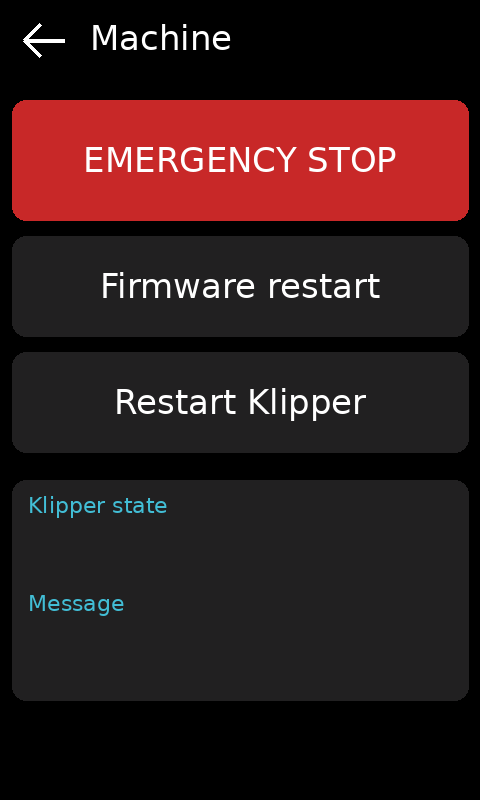
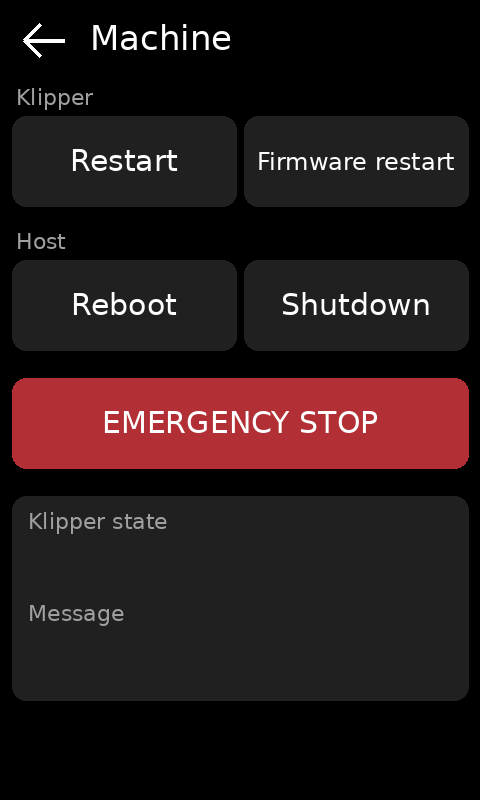
Machine page: Klipper restart, firmware restart, host reboot and shutdown
- machine_page is now part of klipper_ui (Tune 2/2, in place of WiFi):
  Klipper Restart / Firmware restart, Host Reboot / Shutdown, each behind a
  Yes/No dialog (pages 49-52, copies of the stock dialog), E-STOP immediate;
  pages 53/54 shown while the host shuts down / reboots
- bridge: /machine/reboot and /machine/shutdown, refused while printing;
  optional shutdown_plug: a Tasmota plug told "Backlog Delay; Power Off"
  first, so it cuts the printer (and the Pi in it) after the Pi has halted;
  no shutdown if the plug can't be reached. machine_page defaults to true
- mock Moonraker: /machine/reboot and /machine/shutdown (recorded only)
- tests: host actions against the mock and a fake Tasmota plug

Claude-Session: https://claude.ai/code/session_01HTu6hzj5QCnmUbcSjc1dCz

diff --git a/tests/test_spoolman.py b/tests/test_spoolman.py
@@ -136,5 +136,88 @@ class BridgeSpoolmanTest(unittest.TestCase):
         self.assertEqual(len(self.link.sent), n)
 
 
+
+class HostControlTest(BridgeSpoolmanTest):
+    """Machine page host actions against the mock Moonraker and a fake Tasmota plug."""
+
+    def setUp(self):
+        super().setUp()
+        from http.server import BaseHTTPRequestHandler
+        self.plug_calls = []
+        calls = self.plug_calls
+
+        class Plug(BaseHTTPRequestHandler):
+            def log_message(self, *a):
+                pass
+
+            def do_GET(self):
+                calls.append(self.path)
+                body = b'{"Delay":600,"POWER1":"OFF"}'
+                self.send_response(200)
+                self.send_header('Content-Length', str(len(body)))
+                self.end_headers()
+                self.wfile.write(body)
+        self.plug = ThreadingHTTPServer(('127.0.0.1', 0), Plug)
+        threading.Thread(target=self.plug.serve_forever, daemon=True).start()
+        self.b.jobs = _Inline()
+
+    def tearDown(self):
+        self.plug.shutdown()
+        self.plug.server_close()
+        super().tearDown()
+
+    def pages(self):
+        from crm4ui import dgus
+        return [f.payload()[3] for f in self.link.sent if f.vp == dgus.VP_PAGE]
+
+    def test_reboot(self):
+        self.b.handle_frame(_key(ui.K_MACHINE, 4))
+        self.assertEqual(self.pages()[-1], ui.PAGE_HOST_REBOOT)
+        self.assertEqual(self.pr.host_actions, ['reboot'])
+
+    def test_shutdown_with_plug(self):
+        self.b.cfg.shutdown_plug = f'127.0.0.1:{self.plug.server_address[1]}'
+        self.b.cfg.shutdown_plug_user, self.b.cfg.shutdown_plug_password = 'admin', 'pw'
+        self.b.handle_frame(_key(ui.K_MACHINE, 5))
+        self.assertEqual(self.pages()[-1], ui.PAGE_HOST_SHUTDOWN)
+        self.assertEqual(self.pr.host_actions, ['shutdown'])
+        self.assertEqual(len(self.plug_calls), 1)
+        from urllib.parse import parse_qs, urlparse
+        q = parse_qs(urlparse(self.plug_calls[0]).query)
+        self.assertEqual(q['cmnd'], ['Backlog Delay 600; Power1 Off'])
+        self.assertEqual((q['user'], q['password']), (['admin'], ['pw']))
+        self.assertIn('off in 60 s', self.screen()[1][ui.TXT_SHUTDOWN_NOTE[0]])
+
+    def test_plug_unreachable_aborts_shutdown(self):
+        self.b.cfg.shutdown_plug = '127.0.0.1:9'
+        self.b.handle_frame(_key(ui.K_MACHINE, 5))
+        self.assertEqual(self.pr.host_actions, [])
+        self.assertEqual(self.pages()[-1], ui.PAGE_ERROR)
+
+    def test_refused_while_printing(self):
+        self.b.print_state = 'printing'
+        for k in (4, 5):
+            self.b.handle_frame(_key(ui.K_MACHINE, k))
+        self.assertEqual(self.pr.host_actions, [])
+        self.assertEqual(self.pages()[-1], ui.PAGE_MACHINE)
+        self.assertEqual(self.screen()[1][ui.TXT_MACHINE_MSG[0]], 'Stop the print first')
+
+    def test_dry_run(self):
+        self.b.cfg.dry_run = True
+        self.b.cfg.shutdown_plug = f'127.0.0.1:{self.plug.server_address[1]}'
+        self.b.handle_frame(_key(ui.K_MACHINE, 5))
+        self.assertEqual((self.pr.host_actions, self.plug_calls), ([], []))
+
+
+class _Inline:
+    def submit(self, fn):
+        fn()
+
+
+def _key(vp, k):
+    from crm4ui import dgus
+    return dgus.reply_words(vp, k)
+
+
 if __name__ == '__main__':
     unittest.main()

diff --git a/src/crm4bridge/bridge.py b/src/crm4bridge/bridge.py
@@ -15,7 +15,7 @@ from crm4ui import dgus
 from . import spoolman, ui
 from .config import State
 from .link import ScreenLink
-from .moonraker import Moonraker, MoonrakerError
+from .moonraker import Moonraker, MoonrakerError, tasmota_delayed_off
 
 log = logging.getLogger('crm4bridge')
 
@@ -569,6 +569,36 @@ class Bridge:
             self._api('FIRMWARE_RESTART', self.moon.firmware_restart)
         elif k == 3:
             self._api('RESTART', self.moon.restart)
+        elif k in (4, 5):
+            if self.print_state in ('printing', 'paused'):
+                self.text(ui.TXT_MACHINE_MSG, 'Stop the print first')
+                self.set_page(ui.PAGE_MACHINE, 'host action refused while printing')
+                return
+            if k == 4:
+                self.set_page(ui.PAGE_HOST_REBOOT, 'host reboot')
+                self._api('host reboot', self.moon.machine_reboot)
+            else:
+                self.host_shutdown()
+
+    def host_shutdown(self):
+        """Shut the host down; with shutdown_plug set, the printer plug switches off by itself
+        shutdown_plug_delay seconds later (the Pi has halted by then)."""
+        cfg = self.cfg
+        if cfg.shutdown_plug:
+            note = f'Printer power switches off in {cfg.shutdown_plug_delay:.0f} s'
+        else:
+            note = 'Safe to switch off in 30 s'
+        self.text(ui.TXT_SHUTDOWN_NOTE, note)
+        self.set_page(ui.PAGE_HOST_SHUTDOWN, 'host shutdown')
+
+        def run():
+            if cfg.shutdown_plug:
+                tasmota_delayed_off(cfg.shutdown_plug, cfg.shutdown_plug_delay, cfg.shutdown_plug_output,
+                                    cfg.shutdown_plug_user, cfg.shutdown_plug_password)
+            self.moon.machine_shutdown()
+        label = 'host shutdown' + (f' (plug {cfg.shutdown_plug} off in {cfg.shutdown_plug_delay:.0f} s)'
+                                   if cfg.shutdown_plug else '')
+        self._api(label, run)
 
     def k_ignore(self, k):
         pass

diff --git a/examples/make_assets.py b/examples/make_assets.py
@@ -57,20 +57,27 @@ def machine_assets():
     dr.text((8, 70), 'Machine', font=font(30), fill=WHITE)
     tile.save(os.path.join(out, 'machine_tile.png'))
 
-    # Page 45 background: title bar, three action cards, status panel.
+    # Page 45 background: Klipper and Host sections, E-STOP, status panel.
+    # Drawn in the Klipper theme (klipper_branding) since the page is added after its recolour.
+    red, grey = (177, 47, 53), (160, 160, 160)
     im = Image.new('RGB', (480, 800), BLACK)
     dr = ImageDraw.Draw(im)
     back_arrow(dr, 24, 20)
     dr.text((90, 18), 'Machine', font=font(34), fill=WHITE)
-    cards = [((12, 100, 468, 220), RED, 'EMERGENCY STOP'),
-             ((12, 236, 468, 336), CARD, 'Firmware restart'),
-             ((12, 352, 468, 452), CARD, 'Restart Klipper')]
+    dr.text((16, 84), 'Klipper', font=font(22), fill=grey)
+    dr.text((16, 228), 'Host', font=font(22), fill=grey)
+    cards = [((12, 116, 236, 206), CARD, 'Restart'),
+             ((244, 116, 468, 206), CARD, 'Firmware restart'),
+             ((12, 260, 236, 350), CARD, 'Reboot'),
+             ((244, 260, 468, 350), CARD, 'Shutdown'),
+             ((12, 378, 468, 468), red, 'EMERGENCY STOP')]
     for box, col, label in cards:
         dr.rounded_rectangle(box, 14, fill=col)
-        centered(dr, (box[0] + box[2]) / 2, (box[1] + box[3]) / 2 - 20, label, font(34), WHITE)
-    dr.rounded_rectangle((12, 480, 468, 700), 14, fill=CARD)
-    dr.text((28, 492), 'Klipper state', font=font(22), fill=ACCENT)
-    dr.text((28, 590), 'Message', font=font(22), fill=ACCENT)
+        f = font(30 if dr.textlength(label, font=font(30)) < box[2] - box[0] - 20 else 24)
+        centered(dr, (box[0] + box[2]) / 2, (box[1] + box[3]) / 2 - f.size * 0.6, label, f, WHITE)
+    dr.rounded_rectangle((12, 496, 468, 700), 14, fill=CARD)
+    dr.text((28, 508), 'Klipper state', font=font(22), fill=grey)
+    dr.text((28, 600), 'Message', font=font(22), fill=grey)
     im.save(os.path.join(out, 'page45.png'))
 
 

diff --git a/src/crm4bridge/moonraker.py b/src/crm4bridge/moonraker.py
@@ -112,3 +112,34 @@ class Moonraker:
 
     def restart(self):
         return self.post('/printer/restart')
+
+    def machine_reboot(self):
+        return self.post('/machine/reboot')
+
+    def machine_shutdown(self):
+        return self.post('/machine/shutdown')
+
+
+def tasmota_delayed_off(address, delay_s, output=1, user=None, password=None, timeout=5.0):
+    """Ask a Tasmota plug to switch itself off after delay_s seconds (max 360).
+
+    The plug runs the delay itself, so it still switches off after this host
+    has shut down. Uses Tasmota's HTTP command API: Backlog Delay <0.1 s>; Power<n> Off.
+    """
+    delay = max(2, min(3600, int(round(delay_s * 10))))
+    base = address if '://' in address else f'http://{address}'
+    params = {'cmnd': f'Backlog Delay {delay}; Power{int(output)} Off'}
+    if user:
+        params['user'] = user
+    if password:
+        params['password'] = password
+    url = base.rstrip('/') + '/cm?' + urllib.parse.urlencode(params)
+    try:
+        with urllib.request.urlopen(url, timeout=timeout) as r:
+            body = json.loads(r.read() or b'{}')
+    except (urllib.error.URLError, OSError, ValueError) as e:
+        raise MoonrakerError(f'plug {address}: {e}') from e
+    if isinstance(body, dict) and ('Command' in body and body['Command'] == 'Unknown'
+                                   or 'WARNING' in body):
+        raise MoonrakerError(f'plug {address}: {body}')
+    return body

diff --git a/src/crm4bridge/ui.py b/src/crm4bridge/ui.py
@@ -42,6 +42,7 @@ PAGE_SETTINGS_2 = 121
 PAGE_PID_NOZZLE, PAGE_PID_NOZZLE_RUN, PAGE_PID_NOZZLE_DONE = 122, 123, 124
 PAGE_PID_BED, PAGE_PID_BED_RUN, PAGE_PID_BED_DONE = 125, 126, 127
 PAGE_MACHINE = 45                  # custom page from examples/machine_page
+PAGE_HOST_SHUTDOWN, PAGE_HOST_REBOOT = 53, 54
 
 PRINT_FLOW_PAGES = {PAGE_PAUSE_CONFIRM, PAGE_STOP_CONFIRM, PAGE_PRINT_DONE, PAGE_PRINTING_NOPAUSE,
                     PAGE_PRINTING, PAGE_PAUSED, PAGE_TUNE, PAGE_ZOFFSET_TUNE, PAGE_RUNOUT}
@@ -99,6 +100,7 @@ TXT_ABOUT = {'model': (0x30FA, 20), 'hw': (0x3104, 20), 'fw': (0x310E, 20), 'siz
 # custom machine page (examples/machine_page)
 TXT_MACHINE_STATE = (0x9010, 40)
 TXT_MACHINE_MSG = (0x9040, 40)
+TXT_SHUTDOWN_NOTE = (0x9050, 40)
 
 # ---- key VPs (screen -> host) -------------------------------------------------------
 K_MAIN = 0x4002        # 1 file, 2 finish(done page), 3 prepare, 4 settings, 5 print tab, 6 language ok
@@ -121,7 +123,7 @@ K_ADV2 = 0x4105        # 1/2 mesh points, 3..5 CR-touch, 6 volume, 8 home offset
 K_PID_NAV = 0x401F
 K_PID = 0x410F         # 1 start nozzle, 3 start bed, 2/4 yes (save), 5/6 back
 K_LANGUAGE = 0x4248    # 0..8
-K_MACHINE = 0x9000     # custom page: 1 e-stop, 2 firmware restart, 3 restart
+K_MACHINE = 0x9000     # custom page: 1 e-stop, 2 firmware restart, 3 restart, 4 host reboot, 5 host shutdown, 0 no
 
 LANG_KEY_TO_INDEX = {0: 0, 1: 1, 2: 2, 3: 3, 4: 4, 5: 5, 6: 6, 7: 7, 8: 8}
 

diff --git a/tests/test_stock.py b/tests/test_stock.py
@@ -144,9 +144,15 @@ class StockTest(unittest.TestCase):
         apply(prj, load_spec(os.path.join(EXAMPLES, 'machine_page', 'spec.yaml')), log=lambda *a: None)
         self.assertIn(45, prj.images)
         keys = sorted(r.key for r in prj.touch.page(45) if r.vp == 0x9000)
-        self.assertEqual(keys, [1, 2, 3])
+        self.assertEqual(keys, [1])                     # E-STOP; the rest go through Yes/No pages
         self.assertEqual(prj.vpmem.get_text(0x9010, 40), 'waiting for host')
         self.assertEqual(prj.touch.find(page=121, vp=0x403E, key=9)[0].page_next, 45)
+        for page, key, nxt in ((49, 3, 45), (50, 2, 45), (51, 4, None), (52, 5, None)):
+            yes = prj.touch.find(page=page, vp=0x9000, key=key)
+            self.assertEqual([r.page_next for r in yes], [nxt])
+            self.assertEqual(prj.touch.find(page=page, vp=0x9000, key=0)[0].page_next, 45)
+        self.assertEqual({r.page_next for r in prj.touch.page(45) if r.kind != 'return_key' or r.vp == 0}, {121, 49, 50, 51, 52})
+        self.assertIn(0x9050, {r.vp for r in prj.vars.pages[53]})
 
 
 if __name__ == '__main__':

diff --git a/src/crm4bridge/config.py b/src/crm4bridge/config.py
@@ -20,7 +20,12 @@ DEFAULTS = {
     'move_feedrate': '6000',
     'z_feedrate': '600',
     'extrude_feedrate': '300',
-    'machine_page': 'false',
+    'machine_page': 'true',
+    'shutdown_plug': '',
+    'shutdown_plug_user': '',
+    'shutdown_plug_password': '',
+    'shutdown_plug_output': '1',
+    'shutdown_plug_delay': '60',
     'spoolman': 'true',
     'spoolman_interval': '10',
 }
@@ -57,6 +62,11 @@ class Config:
         self.z_feedrate = b.getint('z_feedrate')
         self.extrude_feedrate = b.getint('extrude_feedrate')
         self.machine_page = b.getboolean('machine_page')
+        self.shutdown_plug = b['shutdown_plug'].strip()
+        self.shutdown_plug_user = b['shutdown_plug_user'] or None
+        self.shutdown_plug_password = b['shutdown_plug_password'] or None
+        self.shutdown_plug_output = b.getint('shutdown_plug_output')
+        self.shutdown_plug_delay = b.getfloat('shutdown_plug_delay')
         self.spoolman = b.getboolean('spoolman')
         self.spoolman_interval = b.getfloat('spoolman_interval')
         self.presets = dict(DEFAULT_PRESETS)

diff --git a/src/crm4bridge/mock_moonraker.py b/src/crm4bridge/mock_moonraker.py
@@ -63,6 +63,7 @@ class Printer:
         self.busy_until = 0
         self.spools = [list(s) for s in SPOOLS]
         self.spool_id = 3
+        self.host_actions = []
         self.spoolman_connected = True
 
     def tick(self, dt):
@@ -242,6 +243,10 @@ def make_handler(pr: Printer):
                 return self._ok({'spool_id': pr.spool_id})
             if p == '/server/spoolman/proxy':
                 return self._spoolman_proxy(q)
+            if p in ('/machine/reboot', '/machine/shutdown'):
+                print(f'mock: host {p.rsplit("/", 1)[1]} requested (ignored)')
+                pr.host_actions.append(p.rsplit('/', 1)[1])
+                return self._ok('ok')
             if pr.klippy != 'ready' and p not in ('/printer/firmware_restart', '/printer/restart'):
                 return self._ok('Klippy not ready', 503)
             if p == '/printer/gcode/script':

diff --git a/docs/bridge.md b/docs/bridge.md
@@ -63,7 +63,7 @@ The emulator log has every touch (with coordinates), every page change and every
   - **Velocity limits:** X/Y max acceleration, speed and corner velocity (`SET_VELOCITY_LIMIT`).
   - **Language:** fixed by `language` in the config (English by default). Picks on the screen's language page are ignored and undone.
   - **Spoolman:** the active spool (`/server/spoolman/status`, then `GET /v1/spool/<id>` through `/server/spoolman/proxy`) every `spoolman_interval` seconds: material badge, nearest colour swatch, name, remaining weight / length and vendor. "No active spool", "Spoolman offline" and "Spoolman not available" (no `[spoolman]` in Moonraker) are shown in the name line. `spoolman = false` turns it off. Badges: PLA, PETG, PLA-M (material or name says matte), PLA-CF and PETG-CF (CF or carbon); any other material gets no badge and its name in front of the spool name. See `crm4bridge/spoolman.py`.
-  - **Machine page (custom):** E-STOP, `FIRMWARE_RESTART`, `RESTART`.
+  - **Machine page (custom, Tune 2/2 in place of WiFi):** Klipper `RESTART` and `FIRMWARE_RESTART`, host reboot and shutdown (`/machine/reboot`, `/machine/shutdown`), each after a Yes/No dialog, and an immediate EMERGENCY STOP. Host actions are refused while a print is running or paused. With `shutdown_plug` set (a Tasmota plug that powers the printer and the Pi), the bridge first sends the plug `Backlog Delay <n>; Power1 Off`, so the plug switches itself off `shutdown_plug_delay` seconds after the Pi has halted; if the plug can't be reached, the host is not shut down.
   - **Everything else** shows the "not developed yet" popup: Creality Wi-Fi/cloud, restore network, reset configuration, feedback, CR-Touch tests, improved accuracy, auto leveling data, power-loss recovery, home offsets, manual PID and PID cycle counts, steps/mm, Z/E velocity limits, auto sleep and volume. With the `klipper_ui` build these tiles no longer open their own pages first (`examples/unsupported_features`).
 
 ## Assumptions to confirm on the real screen

diff --git a/README.md b/README.md
@@ -65,8 +65,8 @@ Examples:
 - [`examples/popup_cleanup`](examples/popup_cleanup): the "not developed yet" and error popups without the Creality mascot, with compact cards; "Ok" instead of "Yes".
 - [`examples/unsupported_features`](examples/unsupported_features): Reset configuration, Restore network and CR-Touch testing go straight to the "not developed yet" popup.
 - [`examples/spoolman`](examples/spoolman): the active Spoolman spool on the Print page and the printing pages: colour swatch, material badge (PLA, PETG, PLA-M, PLA-CF, PETG-CF), name and remaining filament. Icons are drawn by `make_icons.py`.
-- [`examples/klipper_ui`](examples/klipper_ui): the full UI for this printer. It includes `klipper_branding`, `print_page_shortcuts`, `keypad_titles`, `english_only`, `input_limits`, `popup_cleanup`, `unsupported_features` and `spoolman`; build this one.
-- [`examples/machine_page`](examples/machine_page): a custom page 45 (E-STOP, firmware restart, restart, Klipper state). It is reached from the Tune page, where it replaces the WiFi tile.
+- [`examples/klipper_ui`](examples/klipper_ui): the full UI for this printer. It includes `klipper_branding`, `print_page_shortcuts`, `keypad_titles`, `english_only`, `input_limits`, `popup_cleanup`, `unsupported_features`, `spoolman` and `machine_page`; build this one.
+- [`examples/machine_page`](examples/machine_page): a custom page 45 with Klipper restart / firmware restart, host reboot / shutdown (with Yes/No dialogs), E-STOP and the Klipper state. It is reached from the Tune page, where it replaces the WiFi tile. Part of `klipper_ui`.
 
 The example images are generated by `examples/make_assets.py`.
 
